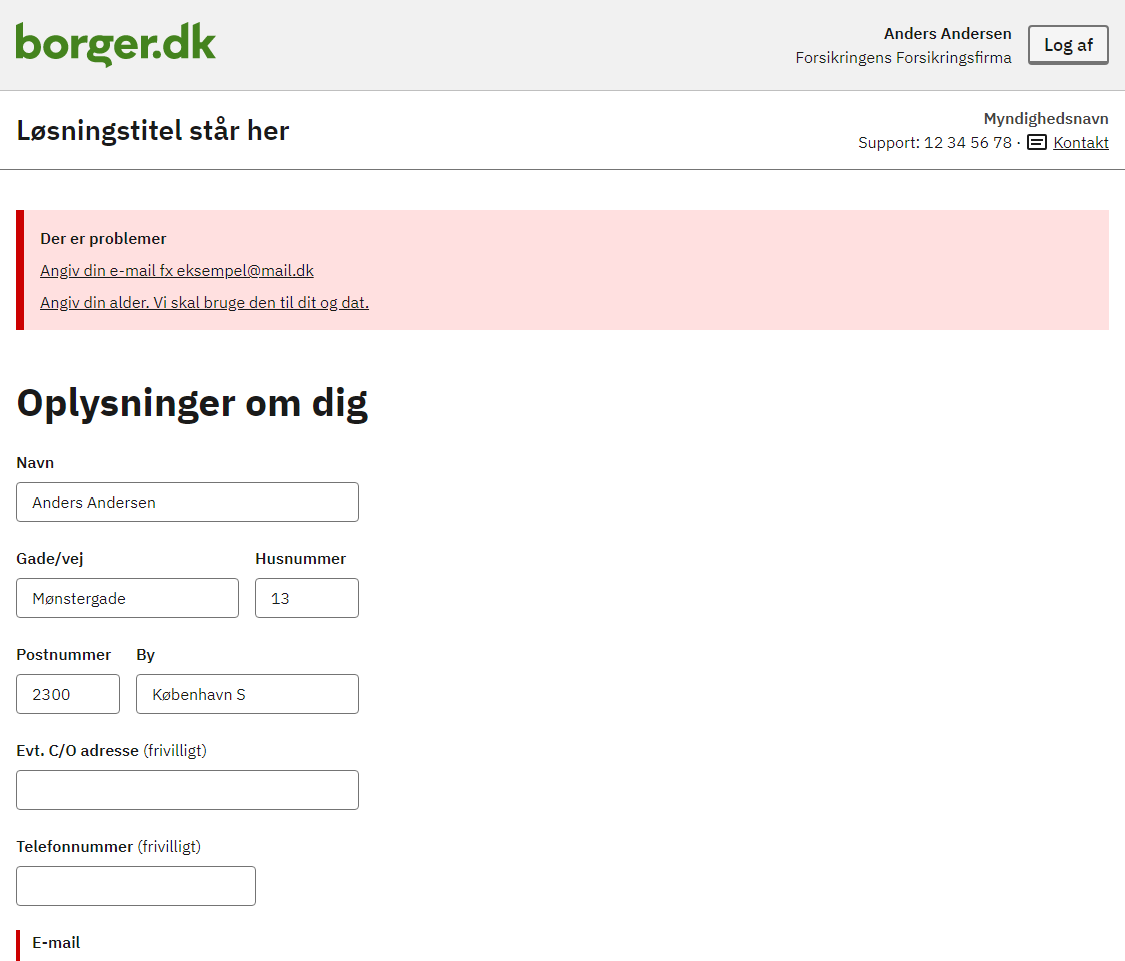
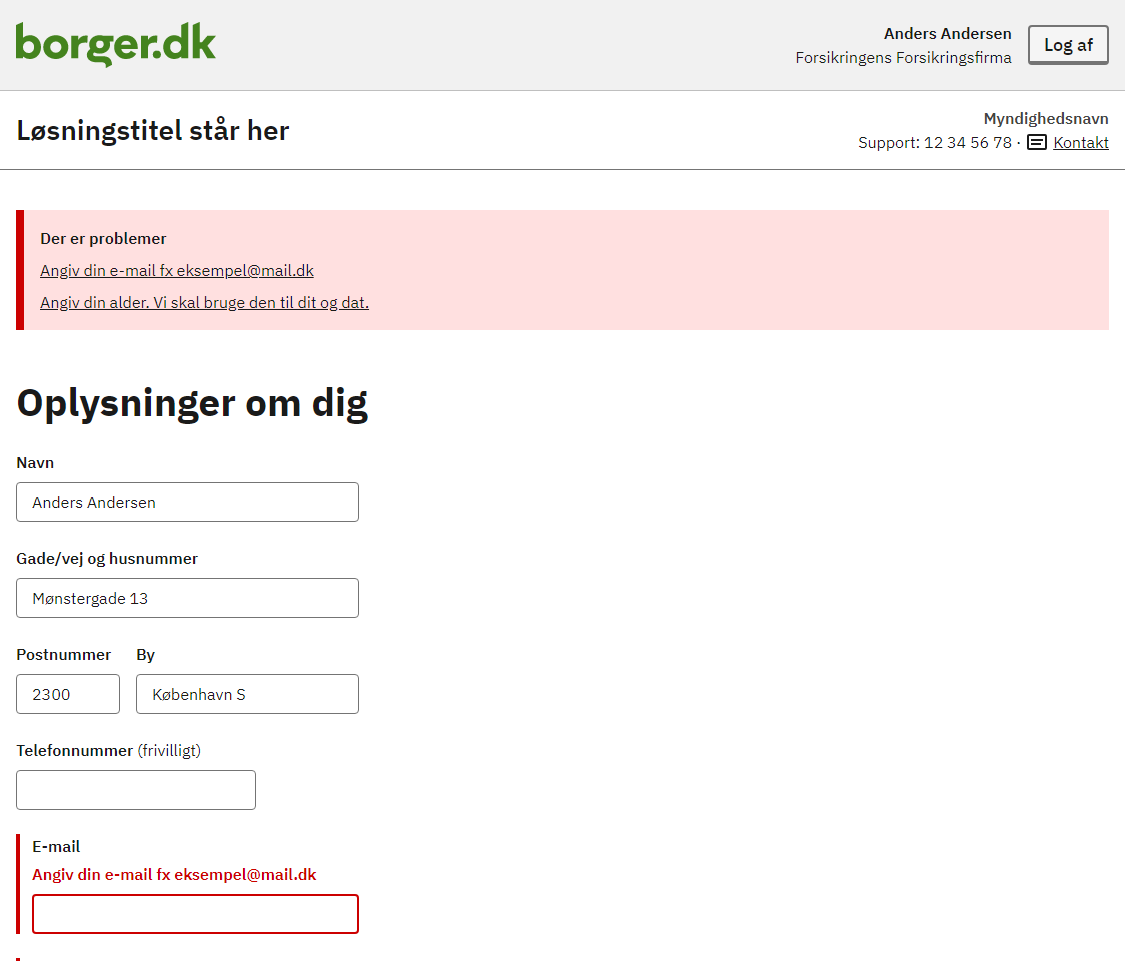
Updated self-service example

diff --git a/docs/search/index.html b/docs/search/index.html
@@ -6071,7 +6071,7 @@ let searchIndex = [
 "lead": "",
 "tags": ['radioknap','radioknapper','tekstfelt','tekstfelter','inputfelt','inputfelter','form','formular'],
 "layout": "demo",
-"content" : "        Gå til sidens indhold                                        Portalnavn                        Menu                                                Anders Andersen                    Forsikringens Forsikringsfirma                                                    Log af                                                                                                    Løsningstitel står her                                                        Myndighedsnavn                Support: 12 34 56 78 · Kontakt                                                        Luk                                    Anders Andersen                Forsikringens Forsikringsfirma                                        Log af                                        Myndighedsnavn            Support: 12 34 56 78 · Kontakt                                                                Oplysninger om dig                                                                                    Navn                                                                                                                    Gade/vej                                                                                                        Husnummer                                                                                                                                                Postnummer                                                                                                        By                                                                                                                    Evt. C/O adresse (frivilligt)                                                                                        Telefonnummer (frivilligt)                                                                                        E-mail                                                                                                                                                    Alder                                                                                                                        Under 18                                                                                                                        18-29                                                                                                                        30-39                                                                                                                        40-59                                                                                                                        60                                    eller ældre                                                                                                                    Næste                                                                                Til toppen af siden        Til toppen                                                                                                                    Ansvarlig myndighed                            MyndighedsnavnLandsgaden 152100 København Ø                                                                                                                                                    Webtilgængelighed og cookies                                                            Tilgængelighedserklæring                                                                Privatlivspolitik og cookies                                                                                                                                                                                                                Links                            Lorem ipsum dolor sit amet, consectetur adipiscing elit.                                Suspendisse mattis, felis quis vestibulum aliquet, elit ex                                rhoncus.                                                             Læs lidt om                                        dit                                Her er også                                        lidt om dat                                                                                                                                                        Kontakt                        Luk                                                                Vi har noget information af advarende karakter                                        Noget tekst, der forklarer det af advarende                        karakter, som brugeren bør vide inden denne ringer eller skriver.                                        En form for support            Hvis du har spørgsmål om:                            En ting som denne                Et andet emne som dette                        Kan du ringe direkte til: 12 34 56 78            Telefonen er åben:                            Mandag:&amp;nbsp;&amp;nbsp;&amp;nbsp;&amp;nbsp;&amp;nbsp;&amp;nbsp;&amp;nbsp;&amp;nbsp;&amp;nbsp;&amp;nbsp;&amp;nbsp;&amp;nbsp;&amp;nbsp;&amp;nbsp;&amp;nbsp;&amp;nbsp;&amp;nbsp;&amp;nbsp;&amp;nbsp;&amp;nbsp;kl. 9-17            Tirsdag-torsdag:&amp;nbsp;&amp;nbsp;&amp;nbsp;&amp;nbsp;&amp;nbsp;kl. 9-17                            Fredag:&amp;nbsp;&amp;nbsp;&amp;nbsp;&amp;nbsp;&amp;nbsp;&amp;nbsp;&amp;nbsp;&amp;nbsp;&amp;nbsp;&amp;nbsp;&amp;nbsp;&amp;nbsp;&amp;nbsp;&amp;nbsp;&amp;nbsp;&amp;nbsp;&amp;nbsp;&amp;nbsp;&amp;nbsp;&amp;nbsp;&amp;nbsp;&amp;nbsp;kl. 9-14                                            Luk                        ",
+"content" : "        Gå til sidens indhold                                        Portalnavn                        Menu                                                Anders Andersen                    Forsikringens Forsikringsfirma                                                    Log af                                                                                                    Løsningstitel står her                                                        Myndighedsnavn                Support: 12 34 56 78 · Kontakt                                                        Luk                                    Anders Andersen                Forsikringens Forsikringsfirma                                        Log af                                        Myndighedsnavn            Support: 12 34 56 78 · Kontakt                                                                Oplysninger om dig                                                                                    Navn                                                                                        Gade/vej og                            husnummer                                                                                                                    Postnummer                                                                                                        By                                                                                                                    Telefonnummer (frivilligt)                                                                                        E-mail                                                                                                                                                    Alder                                                                                                                        Under 18                                                                                                                        18-29                                                                                                                        30-39                                                                                                                        40-59                                                                                                                        60                                    eller ældre                                                                                                                    Næste                                                                                Til toppen af siden        Til toppen                                                                                                                    Ansvarlig myndighed                            MyndighedsnavnLandsgaden 152100 København Ø                                                                                                                                                    Webtilgængelighed og cookies                                                            Tilgængelighedserklæring                                                                Privatlivspolitik og cookies                                                                                                                                                                                                                Links                            Lorem ipsum dolor sit amet, consectetur adipiscing elit.                                Suspendisse mattis, felis quis vestibulum aliquet, elit ex                                rhoncus.                                                             Læs lidt om                                        dit                                Her er også                                        lidt om dat                                                                                                                                                        Kontakt                        Luk                                                                Vi har noget information af advarende karakter                                        Noget tekst, der forklarer det af advarende                        karakter, som brugeren bør vide inden denne ringer eller skriver.                                        En form for support            Hvis du har spørgsmål om:                            En ting som denne                Et andet emne som dette                        Kan du ringe direkte til: 12 34 56 78            Telefonen er åben:                            Mandag:&amp;nbsp;&amp;nbsp;&amp;nbsp;&amp;nbsp;&amp;nbsp;&amp;nbsp;&amp;nbsp;&amp;nbsp;&amp;nbsp;&amp;nbsp;&amp;nbsp;&amp;nbsp;&amp;nbsp;&amp;nbsp;&amp;nbsp;&amp;nbsp;&amp;nbsp;&amp;nbsp;&amp;nbsp;&amp;nbsp;kl. 9-17            Tirsdag-torsdag:&amp;nbsp;&amp;nbsp;&amp;nbsp;&amp;nbsp;&amp;nbsp;kl. 9-17                            Fredag:&amp;nbsp;&amp;nbsp;&amp;nbsp;&amp;nbsp;&amp;nbsp;&amp;nbsp;&amp;nbsp;&amp;nbsp;&amp;nbsp;&amp;nbsp;&amp;nbsp;&amp;nbsp;&amp;nbsp;&amp;nbsp;&amp;nbsp;&amp;nbsp;&amp;nbsp;&amp;nbsp;&amp;nbsp;&amp;nbsp;&amp;nbsp;&amp;nbsp;kl. 9-14                                            Luk                        ",
 "description" : "Side 1 af eksempel af selvbetjeningsløsning, der viser en formular til kontaktoplysninger.",
 "subnav": [""]
 },
@@ -6575,7 +6575,7 @@ let searchIndex = [
 "lead": "",
 "tags": ['fejlbesked','fejl','fejlhåndtering','alert','error'],
 "layout": "demo",
-"content" : "        Gå til sidens indhold                                        Portalnavn                        Menu                                                Anders Andersen                    Forsikringens Forsikringsfirma                                                    Log af                                                                                                    Løsningstitel står her                                                        Myndighedsnavn                Support: 12 34 56 78 · Kontakt                                                        Luk                                    Anders Andersen                Forsikringens Forsikringsfirma                                        Log af                                        Myndighedsnavn            Support: 12 34 56 78 · Kontakt                                                Der er problemer                            Angiv din e-mail fx                        eksempel@mail.dk                Angiv din                        alder. Vi skal bruge den til dit og dat.                                                                Oplysninger om dig                                                                                    Navn                                                                                                                    Gade/vej                                                                                                        Husnummer                                                                                                                                                Postnummer                                                                                                        By                                                                                                                    Evt. C/O adresse (frivilligt)                                                                                        Telefonnummer (frivilligt)                                                                                        E-mail                                                    Fejl: Angiv din e-mail fx                            eksempel@mail.dk                                                                                                                                                                            Alder                                                                                        Fejl: Angiv din alder. Vi skal                                bruge den til dit og dat.                                                                                                                        Under 18                                                                                                                        18-29                                                                                                                        30-39                                                                                                                        40-59                                                                                                                        60                                    eller ældre                                                                                                                    Næste                                                                                Til toppen af siden        Til toppen                                                                                                                    Ansvarlig myndighed                            MyndighedsnavnLandsgaden 152100 København Ø                                                                                                                                                    Webtilgængelighed og cookies                                                            Tilgængelighedserklæring                                                                Privatlivspolitik og cookies                                                                                                                                                                                                                Links                            Lorem ipsum dolor sit amet, consectetur adipiscing elit.                                Suspendisse mattis, felis quis vestibulum aliquet, elit ex                                rhoncus.                                                             Læs lidt om                                        dit                                Her er også                                        lidt om dat                                                                                                                                                        Kontakt                        Luk                                                                Vi har noget information af advarende karakter                                        Noget tekst, der forklarer det af advarende                        karakter, som brugeren bør vide inden denne ringer eller skriver.                                        En form for support            Hvis du har spørgsmål om:                            En ting som denne                Et andet emne som dette                        Kan du ringe direkte til: 12 34 56 78            Telefonen er åben:                            Mandag:&amp;nbsp;&amp;nbsp;&amp;nbsp;&amp;nbsp;&amp;nbsp;&amp;nbsp;&amp;nbsp;&amp;nbsp;&amp;nbsp;&amp;nbsp;&amp;nbsp;&amp;nbsp;&amp;nbsp;&amp;nbsp;&amp;nbsp;&amp;nbsp;&amp;nbsp;&amp;nbsp;&amp;nbsp;&amp;nbsp;kl. 9-17            Tirsdag-torsdag:&amp;nbsp;&amp;nbsp;&amp;nbsp;&amp;nbsp;&amp;nbsp;kl. 9-17                            Fredag:&amp;nbsp;&amp;nbsp;&amp;nbsp;&amp;nbsp;&amp;nbsp;&amp;nbsp;&amp;nbsp;&amp;nbsp;&amp;nbsp;&amp;nbsp;&amp;nbsp;&amp;nbsp;&amp;nbsp;&amp;nbsp;&amp;nbsp;&amp;nbsp;&amp;nbsp;&amp;nbsp;&amp;nbsp;&amp;nbsp;&amp;nbsp;&amp;nbsp;kl. 9-14                                            Luk                        ",
+"content" : "        Gå til sidens indhold                                        Portalnavn                        Menu                                                Anders Andersen                    Forsikringens Forsikringsfirma                                                    Log af                                                                                                    Løsningstitel står her                                                        Myndighedsnavn                Support: 12 34 56 78 · Kontakt                                                        Luk                                    Anders Andersen                Forsikringens Forsikringsfirma                                        Log af                                        Myndighedsnavn            Support: 12 34 56 78 · Kontakt                                                Der er problemer                            Angiv din e-mail fx                        eksempel@mail.dk                Angiv din                        alder. Vi skal bruge den til dit og dat.                                                                Oplysninger om dig                                                                                    Navn                                                                                        Gade/vej og                            husnummer                                                                                                                    Postnummer                                                                                                        By                                                                                                                    Telefonnummer (frivilligt)                                                                                        E-mail                                                    Fejl: Angiv din e-mail fx                            eksempel@mail.dk                                                                                                                                                                            Alder                                                                                        Fejl: Angiv din alder. Vi skal                                bruge den til dit og dat.                                                                                                                        Under 18                                                                                                                        18-29                                                                                                                        30-39                                                                                                                        40-59                                                                                                                        60                                    eller ældre                                                                                                                    Næste                                                                                Til toppen af siden        Til toppen                                                                                                                    Ansvarlig myndighed                            MyndighedsnavnLandsgaden 152100 København Ø                                                                                                                                                    Webtilgængelighed og cookies                                                            Tilgængelighedserklæring                                                                Privatlivspolitik og cookies                                                                                                                                                                                                                Links                            Lorem ipsum dolor sit amet, consectetur adipiscing elit.                                Suspendisse mattis, felis quis vestibulum aliquet, elit ex                                rhoncus.                                                             Læs lidt om                                        dit                                Her er også                                        lidt om dat                                                                                                                                                        Kontakt                        Luk                                                                Vi har noget information af advarende karakter                                        Noget tekst, der forklarer det af advarende                        karakter, som brugeren bør vide inden denne ringer eller skriver.                                        En form for support            Hvis du har spørgsmål om:                            En ting som denne                Et andet emne som dette                        Kan du ringe direkte til: 12 34 56 78            Telefonen er åben:                            Mandag:&amp;nbsp;&amp;nbsp;&amp;nbsp;&amp;nbsp;&amp;nbsp;&amp;nbsp;&amp;nbsp;&amp;nbsp;&amp;nbsp;&amp;nbsp;&amp;nbsp;&amp;nbsp;&amp;nbsp;&amp;nbsp;&amp;nbsp;&amp;nbsp;&amp;nbsp;&amp;nbsp;&amp;nbsp;&amp;nbsp;kl. 9-17            Tirsdag-torsdag:&amp;nbsp;&amp;nbsp;&amp;nbsp;&amp;nbsp;&amp;nbsp;kl. 9-17                            Fredag:&amp;nbsp;&amp;nbsp;&amp;nbsp;&amp;nbsp;&amp;nbsp;&amp;nbsp;&amp;nbsp;&amp;nbsp;&amp;nbsp;&amp;nbsp;&amp;nbsp;&amp;nbsp;&amp;nbsp;&amp;nbsp;&amp;nbsp;&amp;nbsp;&amp;nbsp;&amp;nbsp;&amp;nbsp;&amp;nbsp;&amp;nbsp;&amp;nbsp;kl. 9-14                                            Luk                        ",
 "description" : "Eksempel på en formular med fejl.",
 "subnav": [""]
 },

diff --git a/_includes/code/components/example-formular-med-fejl-1.html b/_includes/code/components/example-formular-med-fejl-1.html
@@ -119,25 +119,15 @@
                             autocomplete="name">
                     </div>
 
-                    <div class="d-block d-sm-flex align-items-sm-end">
+                    <div class="form-group">
+                        <label class="form-label" for="input-gade">Gade/vej og
+                            husnummer</label>
 
-                        <div class="form-group mr-sm-4 mt-5 mt-sm-0 w-percent-sm-100">
-                            <label class="form-label" for="input-gade">Gade/vej</label>
-
-                            <input type="text" id="input-gade" name="gade"
-                                class="form-input input-width-xl" value="Mønstergade" required
-                                autocomplete="on">
-                        </div>
-
-                        <div class="form-group">
-                            <label class="form-label" for="input-husnummer">Husnummer</label>
-
-                            <input type="text" id="input-husnummer" name="husnummer"
-                                class="form-input input-width-xs" value="13" required
-                                autocomplete="on">
-                        </div>
-
+                        <input type="text" id="input-gade" name="gade"
+                            class="form-input input-width-xl" value="Mønstergade 13" required
+                            autocomplete="address-line1">
                     </div>
+
                     <div class="d-block d-sm-flex align-items-sm-end">
 
                         <div class="form-group mr-sm-4 mt-5 mt-sm-0">
@@ -157,14 +147,6 @@
                                 autocomplete="address-line2">
                         </div>
 
-                    </div>
-
-                    <div class="form-group">
-                        <label class="form-label" for="input-co-adresse">Evt. C/O adresse<span
-                                class="weight-normal"> (frivilligt)</span></label>
-
-                        <input type="text" id="input-co-adresse" name="COadresse"
-                            class="form-input input-width-xl">
                     </div>
 
                     <div class="form-group">

diff --git a/docs/pages/eksempler/formular-med-fejl/formular-med-fejl-1/index.html b/docs/pages/eksempler/formular-med-fejl/formular-med-fejl-1/index.html
@@ -347,25 +347,15 @@
                             autocomplete="name">
                     </div>
 
-                    <div class="d-block d-sm-flex align-items-sm-end">
+                    <div class="form-group">
+                        <label class="form-label" for="input-gade">Gade/vej og
+                            husnummer</label>
 
-                        <div class="form-group mr-sm-4 mt-5 mt-sm-0 w-percent-sm-100">
-                            <label class="form-label" for="input-gade">Gade/vej</label>
-
-                            <input type="text" id="input-gade" name="gade"
-                                class="form-input input-width-xl" value="Mønstergade" required
-                                autocomplete="on">
-                        </div>
-
-                        <div class="form-group">
-                            <label class="form-label" for="input-husnummer">Husnummer</label>
-
-                            <input type="text" id="input-husnummer" name="husnummer"
-                                class="form-input input-width-xs" value="13" required
-                                autocomplete="on">
-                        </div>
-
+                        <input type="text" id="input-gade" name="gade"
+                            class="form-input input-width-xl" value="Mønstergade 13" required
+                            autocomplete="address-line1">
                     </div>
+
                     <div class="d-block d-sm-flex align-items-sm-end">
 
                         <div class="form-group mr-sm-4 mt-5 mt-sm-0">
@@ -385,14 +375,6 @@
                                 autocomplete="address-line2">
                         </div>
 
-                    </div>
-
-                    <div class="form-group">
-                        <label class="form-label" for="input-co-adresse">Evt. C/O adresse<span
-                                class="weight-normal"> (frivilligt)</span></label>
-
-                        <input type="text" id="input-co-adresse" name="COadresse"
-                            class="form-input input-width-xl">
                     </div>
 
                     <div class="form-group">

diff --git a/_includes/code/components/example-formular-kontaktoplysninger-page-1.html b/_includes/code/components/example-formular-kontaktoplysninger-page-1.html
@@ -105,23 +105,15 @@
                             class="form-input input-width-xl" required autocomplete="name">
                     </div>
 
-                    <div class="d-block d-sm-flex align-items-sm-end">
+                    <div class="form-group">
+                        <label class="form-label" for="input-gade">Gade/vej og
+                            husnummer</label>
 
-                        <div class="form-group mr-sm-4 mt-5 mt-sm-0 w-percent-sm-100">
-                            <label class="form-label" for="input-gade">Gade/vej</label>
-
-                            <input type="text" id="input-gade" name="gade"
-                                class="form-input input-width-xl" required autocomplete="on">
-                        </div>
-
-                        <div class="form-group">
-                            <label class="form-label" for="input-husnummer">Husnummer</label>
-
-                            <input type="text" id="input-husnummer" name="husnummer"
-                                class="form-input input-width-xs" required autocomplete="on">
-                        </div>
-
+                        <input type="text" id="input-gade" name="gade"
+                            class="form-input input-width-xl" required
+                            autocomplete="address-line1">
                     </div>
+
                     <div class="d-block d-sm-flex align-items-sm-end">
 
                         <div class="form-group mr-sm-4 mt-5 mt-sm-0">
@@ -141,14 +133,6 @@
                                 autocomplete="address-line2">
                         </div>
 
-                    </div>
-
-                    <div class="form-group">
-                        <label class="form-label" for="input-co-adresse">Evt. C/O adresse<span
-                                class="weight-normal"> (frivilligt)</span></label>
-
-                        <input type="text" id="input-co-adresse" name="COadresse"
-                            class="form-input input-width-xl">
                     </div>
 
                     <div class="form-group">

diff --git a/docs/pages/eksempler/formular-til-kontaktoplysninger/formular-1/index.html b/docs/pages/eksempler/formular-til-kontaktoplysninger/formular-1/index.html
@@ -333,23 +333,15 @@
                             class="form-input input-width-xl" required autocomplete="name">
                     </div>
 
-                    <div class="d-block d-sm-flex align-items-sm-end">
+                    <div class="form-group">
+                        <label class="form-label" for="input-gade">Gade/vej og
+                            husnummer</label>
 
-                        <div class="form-group mr-sm-4 mt-5 mt-sm-0 w-percent-sm-100">
-                            <label class="form-label" for="input-gade">Gade/vej</label>
-
-                            <input type="text" id="input-gade" name="gade"
-                                class="form-input input-width-xl" required autocomplete="on">
-                        </div>
-
-                        <div class="form-group">
-                            <label class="form-label" for="input-husnummer">Husnummer</label>
-
-                            <input type="text" id="input-husnummer" name="husnummer"
-                                class="form-input input-width-xs" required autocomplete="on">
-                        </div>
-
+                        <input type="text" id="input-gade" name="gade"
+                            class="form-input input-width-xl" required
+                            autocomplete="address-line1">
                     </div>
+
                     <div class="d-block d-sm-flex align-items-sm-end">
 
                         <div class="form-group mr-sm-4 mt-5 mt-sm-0">
@@ -369,14 +361,6 @@
                                 autocomplete="address-line2">
                         </div>
 
-                    </div>
-
-                    <div class="form-group">
-                        <label class="form-label" for="input-co-adresse">Evt. C/O adresse<span
-                                class="weight-normal"> (frivilligt)</span></label>
-
-                        <input type="text" id="input-co-adresse" name="COadresse"
-                            class="form-input input-width-xl">
                     </div>
 
                     <div class="form-group">

diff --git a/example-dumps.js b/example-dumps.js
@@ -1,7 +1,7 @@
 const puppeteer = require('puppeteer');
 
-//var root = "http://127.0.0.1:4000/";
-var root = "https://develop.designsystem.dk/";
+var root = "http://127.0.0.1:4000/";
+//var root = "https://develop.designsystem.dk/";
 var targetRootDir = "img/examples_pages/";
 var themes = ["virk", "borgerdk"];
 
